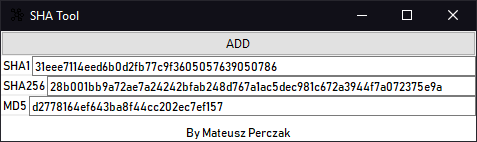
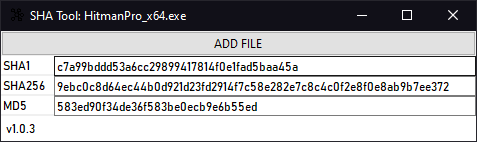
Update 1.0.3

diff --git a/src/SHA_Tool.py b/src/SHA_Tool.py
@@ -6,6 +6,7 @@ from tkinter.filedialog import askopenfilename
 root = Tk()
 root.geometry("475x110")
 root.title("SHA Tool")
+root.minsize(475, 110)
 root.resizable(width=TRUE, height=FALSE)
 root.configure(background="#fff")
 current_dir = os.getcwd()
@@ -74,7 +75,7 @@ def add_file():
     sha1_entry.delete(0, END)
     md5_entry.delete(0, END)
     sha256_entry.delete(0, END)
-    file = askopenfilename(initialdir=current_dir, filetypes=(("Exe file", "*.exe"), ("All Files", "*.*")),
+    file = askopenfilename(initialdir=current_dir, filetypes=(("Exe files", "*.exe"), ("All Files", "*.*")),
                            title="Choose a exe file.")
     if file:
         root.title("SHA Tool: {}".format(os.path.basename(file)))
@@ -135,12 +136,12 @@ sha256_entry.pack(side=LEFT, anchor=NW, fill=X, expand=TRUE)
 # end
 
 # main
-add_file = ttk.Button(root, text="ADD", takefocus=0, command=add_file)
+add_file = ttk.Button(root, text="ADD FILE", takefocus=0, command=add_file)
 add_file.pack(side=TOP, fill=X)
 sha1_frame.pack(fill=X)
 sha256_frame.pack(fill=X)
 md5_frame.pack(fill=X)
-version_label = ttk.Label(root, text=" v1.0.2", background="#fff", font='Bahnschrift 9')
+version_label = ttk.Label(root, text=" v1.0.3", background="#fff", font='Bahnschrift 9')
 version_label.pack(side=LEFT)
 # end
 
